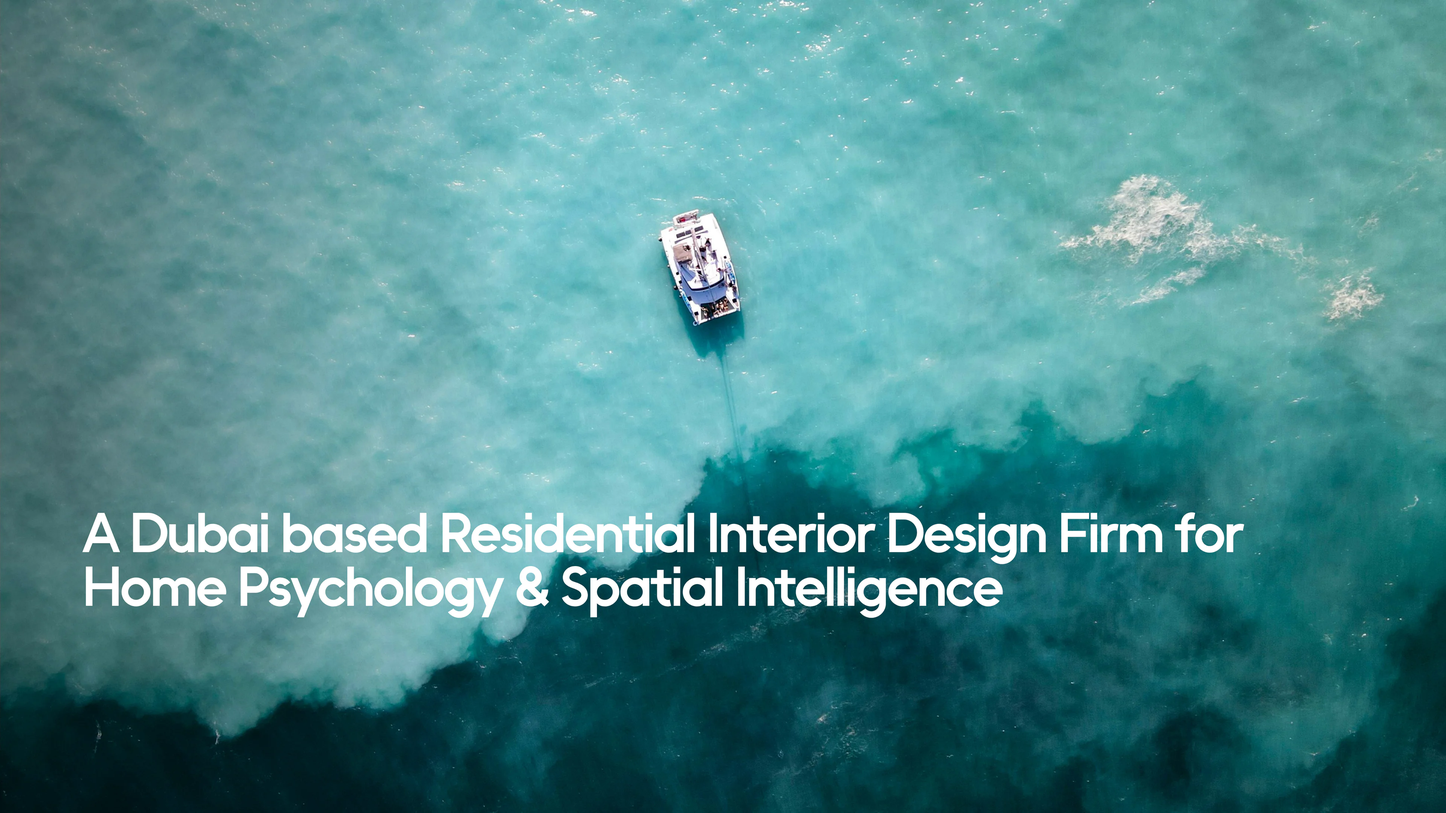
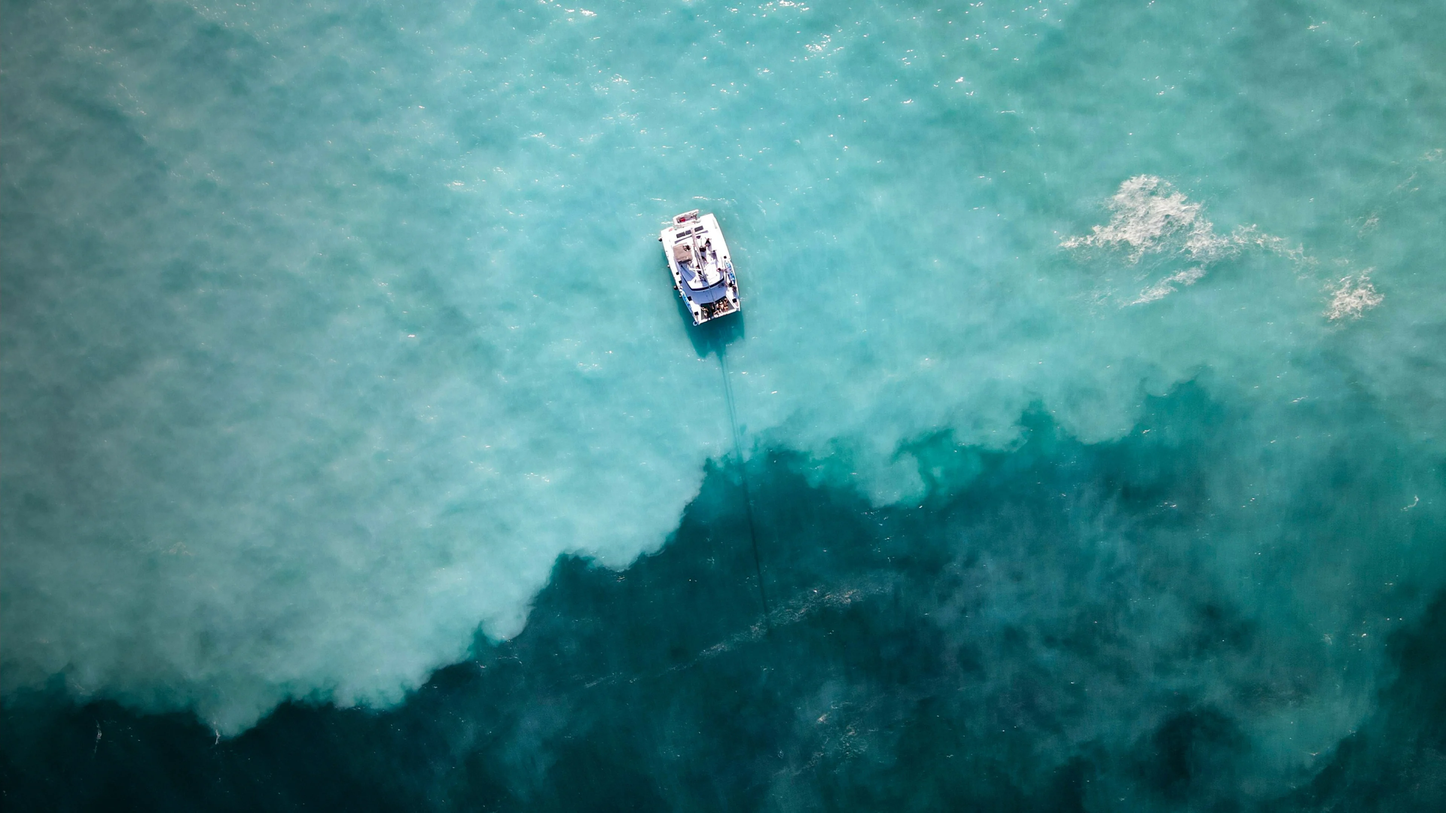
revised changes for the hero and slideshow section

Changed region(s): [[0.0625, 0.6204, 0.875, 0.7755]]

diff --git a/index.html b/index.html
@@ -34,7 +34,7 @@
   <link rel="preconnect" href="https://fonts.googleapis.com" />
   <link rel="preconnect" href="https://fonts.gstatic.com" crossorigin />
   <link href="https://fonts.googleapis.com/css2?family=Arimo:ital,wght@0,400;0,500;0,600;0,700;1,400&display=swap" rel="stylesheet" />
-  <link rel="stylesheet" href="css/style.css" />
+  <link rel="stylesheet" href="css/style.css?v=2" />
 </head>
 <body>
 
@@ -49,12 +49,16 @@
   <section id="hero" aria-label="Featured projects">
     <div class="hero-slides">
 
-      <!-- SLIDE 1 — Brand intro (headline is part of the image, CTA only) -->
+      <!-- SLIDE 1 — Brand intro. Desktop headline is live text over a text-free image;
+           the mobile image still has the headline baked in. -->
       <div class="hero-slide active" data-index="0">
         <picture>
           <source media="(max-width: 768px)" srcset="assets/images/hero/mobile-1.webp 1080w, assets/images/hero/mobile-1-1440.webp 1440w" sizes="100vw" />
-          <img src="assets/images/hero/desktop-1-1920.webp" srcset="assets/images/hero/desktop-1-1920.webp 1920w, assets/images/hero/desktop-1-2560.webp 2560w, assets/images/hero/desktop-1-3840.webp 3840w" sizes="100vw" alt="A Dubai based Residential Interior Design Firm for Home Psychology &amp; Spatial Intelligence" class="hero-bg" fetchpriority="high" />
+          <img src="assets/images/hero/desktop-1-1920.webp" srcset="assets/images/hero/desktop-1-1920.webp 1920w, assets/images/hero/desktop-1-2560.webp 2560w, assets/images/hero/desktop-1-3840.webp 3840w" sizes="100vw" alt="Aerial view of a catamaran on turquoise water" class="hero-bg" fetchpriority="high" />
         </picture>
+        <div class="hero-art">
+          <h1 class="hero-headline">A Dubai based Residential Interior Design Firm for<br>Home Psychology &amp; Spatial Intelligence</h1>
+        </div>
       </div>
 
       <!-- SLIDE 2 — Wallz Tablets -->
@@ -693,7 +697,19 @@
   <section id="gallery" aria-roledescription="carousel" aria-label="Wallz gallery">
     <div class="gallery gallery--desktop" data-gallery>
       <div class="gallery-track">
-        <div class="gallery-slide" role="group" aria-roledescription="slide" aria-label="1 of 5"><img data-src="assets/images/slideshow/desktop-1-1920.webp" data-srcset="assets/images/slideshow/desktop-1-1920.webp 1920w, assets/images/slideshow/desktop-1-2560.webp 2560w" sizes="100vw" alt="Wallz work 1" decoding="async" /></div>
+        <div class="gallery-slide gallery-slide--series" role="group" aria-roledescription="slide" aria-label="1 of 5">
+          <img data-src="assets/images/slideshow/desktop-1-1920.webp" data-srcset="assets/images/slideshow/desktop-1-1920.webp 1920w, assets/images/slideshow/desktop-1-2560.webp 2560w" sizes="100vw" alt="Wallz original series" decoding="async" />
+          <!-- Live logos over the text-free image; positions match the client artwork -->
+          <svg class="series-ig-icon" viewBox="0 0 24 24" fill="currentColor" aria-hidden="true"><path d="M12 2.163c3.204 0 3.584.012 4.85.07 3.252.148 4.771 1.691 4.919 4.919.058 1.265.069 1.645.069 4.849 0 3.205-.012 3.584-.069 4.849-.149 3.225-1.664 4.771-4.919 4.919-1.266.058-1.644.07-4.85.07-3.204 0-3.584-.012-4.849-.07-3.26-.149-4.771-1.699-4.919-4.92-.058-1.265-.07-1.644-.07-4.849 0-3.204.013-3.583.07-4.849.149-3.227 1.664-4.771 4.919-4.919 1.266-.057 1.645-.069 4.849-.069zm0-2.163c-3.259 0-3.667.014-4.947.072-4.358.2-6.78 2.618-6.98 6.98-.059 1.281-.073 1.689-.073 4.948 0 3.259.014 3.668.072 4.948.2 4.358 2.618 6.78 6.98 6.98 1.281.058 1.689.072 4.948.072 3.259 0 3.668-.014 4.948-.072 4.354-.2 6.782-2.618 6.979-6.98.059-1.28.073-1.689.073-4.948 0-3.259-.014-3.667-.072-4.947-.196-4.354-2.617-6.78-6.979-6.98-1.281-.059-1.69-.073-4.949-.073zm0 5.838c-3.403 0-6.162 2.759-6.162 6.162s2.759 6.163 6.162 6.163 6.162-2.759 6.162-6.163c0-3.403-2.759-6.162-6.162-6.162zm0 10.162c-2.209 0-4-1.79-4-4 0-2.209 1.791-4 4-4s4 1.791 4 4c0 2.21-1.791 4-4 4zm6.406-11.845c-.796 0-1.441.645-1.441 1.44s.645 1.44 1.441 1.44c.795 0 1.439-.645 1.439-1.44s-.644-1.44-1.439-1.44z"/></svg>
+          <span class="series-ig-name">Wallz</span>
+          <span class="series-ig-handle">@wallz.ae</span>
+          <img src="assets/logos/designlanguagebywallz-white.svg" alt="Design Language by Wallz" class="series-logo-art series-logo-art--dl" />
+          <img src="assets/logos/nature's finest.svg" alt="Nature's Finest" class="series-logo-art series-logo-art--natures" />
+          <img src="assets/logos/timeplay.svg" alt="Timeplay" class="series-logo-art series-logo-art--timeplay" />
+          <img src="assets/logos/placesworldwide.svg" alt="Places Worldwide" class="series-logo-art series-logo-art--places" />
+          <img src="assets/logos/feelingsinform.svg" alt="Feelings in Form" class="series-logo-art series-logo-art--feelings" />
+          <img src="assets/logos/Iconica.svg" alt="Iconica" class="series-logo-art series-logo-art--iconica" />
+        </div>
         <div class="gallery-slide" role="group" aria-roledescription="slide" aria-label="2 of 5"><img data-src="assets/images/slideshow/desktop-2-1920.webp" data-srcset="assets/images/slideshow/desktop-2-1920.webp 1920w, assets/images/slideshow/desktop-2-2560.webp 2560w" sizes="100vw" alt="Wallz work 2" decoding="async" /></div>
         <div class="gallery-slide" role="group" aria-roledescription="slide" aria-label="3 of 5"><img data-src="assets/images/slideshow/desktop-3-1920.webp" data-srcset="assets/images/slideshow/desktop-3-1920.webp 1920w, assets/images/slideshow/desktop-3-2560.webp 2560w" sizes="100vw" alt="Wallz work 3" decoding="async" /></div>
         <div class="gallery-slide" role="group" aria-roledescription="slide" aria-label="4 of 5"><img data-src="assets/images/slideshow/desktop-4-1920.webp" data-srcset="assets/images/slideshow/desktop-4-1920.webp 1920w, assets/images/slideshow/desktop-4-2560.webp 2560w" sizes="100vw" alt="Wallz work 4" decoding="async" /></div>
@@ -783,6 +799,6 @@
     <p class="footer-disclaimer">Wallz®, Wallz Tablet™, Design Language by Wallz™, and all associated original concepts, creative systems, and brand assets and visuals including logos are proprietary creations developed exclusively by Wallz. Unauthorized use, imitation, replication, or commercial exploitation of any Wallz intellectual property may result in legal action.</p>
   </footer>
 
-  <script src="js/main.js"></script>
+  <script src="js/main.js?v=2"></script>
 </body>
 </html>

diff --git a/css/style.css b/css/style.css
@@ -65,6 +65,7 @@ a { color: inherit; text-decoration: none; }
   min-height: 560px;
   overflow: hidden;
   background: var(--black);
+  container-type: size;
 }
 
 .hero-slides { position: absolute; inset: 0; }
@@ -84,6 +85,35 @@ a { color: inherit; text-decoration: none; }
   width: 100%; height: 100%;
   object-fit: cover;
   object-position: center;
+}
+
+/* Live text over hero 1. .hero-art is a 16:9 box sized and centred exactly
+   like the cover-fitted image, so % positions and cqi font sizes stay locked
+   to the artwork at any screen size. Values measured from the client file
+   (6000 × 3375): left 338px, first line box top 2098px, 232px type. */
+.hero-art {
+  position: absolute;
+  left: 50%;
+  top: 50%;
+  width: max(100cqw, 177.78cqh);
+  aspect-ratio: 16 / 9;
+  transform: translate(-50%, -50%);
+  container-type: inline-size;
+  pointer-events: none;
+}
+
+.hero-headline {
+  position: absolute;
+  left: 5.633%;
+  top: 62.17%;
+  margin: 0;
+  font-family: 'II Vorkurs', var(--font);
+  font-weight: 700;
+  font-size: 3.865cqi;
+  line-height: 0.9617;
+  letter-spacing: -0.0668em;
+  white-space: nowrap;
+  color: var(--white);
 }
 
 /* Top-right episode label */
@@ -228,13 +258,13 @@ a { color: inherit; text-decoration: none; }
 ══════════════════════════════════════ */
 @font-face {
   font-family: 'II Vorkurs';
-  src: url('assets/fonts/IIVorkurs-Medium.ttf') format('truetype');
+  src: url('../assets/fonts/II%20Vorkurs%20Medium.ttf') format('truetype');
   font-weight: 500;
   font-display: swap;
 }
 @font-face {
   font-family: 'II Vorkurs';
-  src: url('assets/fonts/IIVorkurs-Bold.ttf') format('truetype');
+  src: url('../assets/fonts/II%20Vorkurs%20Bold.ttf') format('truetype');
   font-weight: 700;
   font-display: swap;
 }
@@ -774,17 +804,61 @@ a { color: inherit; text-decoration: none; }
 }
 
 .gallery-slide {
+  position: relative;
   flex: 0 0 100%;
   height: 100%;
+  overflow: hidden;
+  container-type: inline-size;
 }
 
-.gallery-slide img {
+.gallery-slide img[data-src] {
   width: 100%;
   height: 100%;
   object-fit: cover;
   user-select: none;
   -webkit-user-drag: none;
 }
+
+/* Series slide: live logos over the text-free image. The slide is exactly
+   16:9 like the artwork, so every value is a % of the client file
+   (6000 × 3375). Font sizes use cqi (1cqi = 1% of slide width). */
+.gallery-slide--series > :not(img[data-src]) {
+  position: absolute;
+  pointer-events: none;
+}
+
+.series-logo-art { height: auto; }
+
+/* Logos ship dark; the Design Language one has its own white version */
+.series-logo-art:not(.series-logo-art--dl) { filter: brightness(0) invert(1); }
+
+.series-logo-art--dl       { left: 79.95%;  top: 15.585%; width: 15.317%; }
+.series-logo-art--natures  { left: 2.483%;  top: 84.563%; width: 14.85%; }
+.series-logo-art--timeplay { left: 21.35%;  top: 83.407%; width: 17.1%; }
+.series-logo-art--places   { left: 45.25%;  top: 71.526%; width: 9.533%; }
+.series-logo-art--feelings { left: 62.25%;  top: 84.563%; width: 15.833%; }
+.series-logo-art--iconica  { left: 80.317%; top: 82.104%; width: 19.655%; }
+
+.series-ig-icon {
+  left: 79.883%;
+  top: 7.259%;
+  width: 3.067%;
+  height: auto;
+  color: var(--white);
+}
+
+.series-ig-name,
+.series-ig-handle {
+  display: block;
+  font-family: var(--font);
+  font-weight: 400;
+  line-height: 1;
+  white-space: nowrap;
+  color: var(--white);
+}
+
+.series-ig-name   { left: 83.483%; top: 7.321%;  font-size: 1.772cqi; }
+.series-ig-handle { left: 83.597%; top: 10.67%;  font-size: 1.1127cqi; }
 
 /* Frosted-glass arrow buttons */
 .gallery-arrow {
@@ -1073,6 +1147,13 @@ a { color: inherit; text-decoration: none; }
 @media (max-width: 768px) {
 
   #nav { padding: 0 20px; }
+
+  /* Mobile hero 1 image has the headline baked in, so hide the live text
+     visually but keep the h1 for screen readers and search engines */
+  .hero-art {
+    width: 1px; height: 1px; overflow: hidden;
+    clip-path: inset(50%);
+  }
 
   /* Match the 9:16 mobile artwork */
   #hero { height: min(110vh, 177.78vw); min-height: 0; }

diff --git a/js/main.js b/js/main.js
@@ -40,7 +40,7 @@
   Array.prototype.forEach.call(galleries, function (gallery) {
     var track = gallery.querySelector('.gallery-track');
     var slides = gallery.querySelectorAll('.gallery-slide');
-    var imgs = gallery.querySelectorAll('img');
+    var imgs = gallery.querySelectorAll('img[data-src]');
     var current = 0;
 
     if (slides.length === 0) return;
